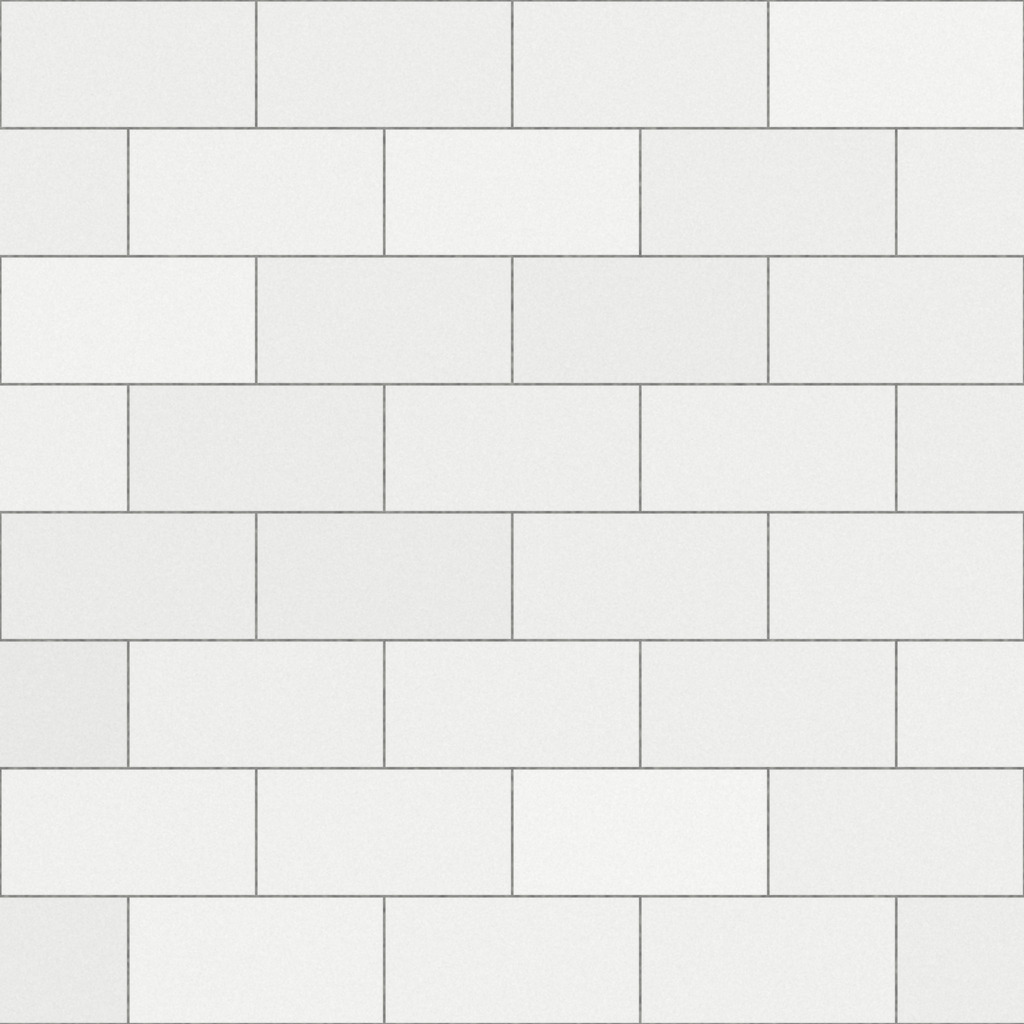
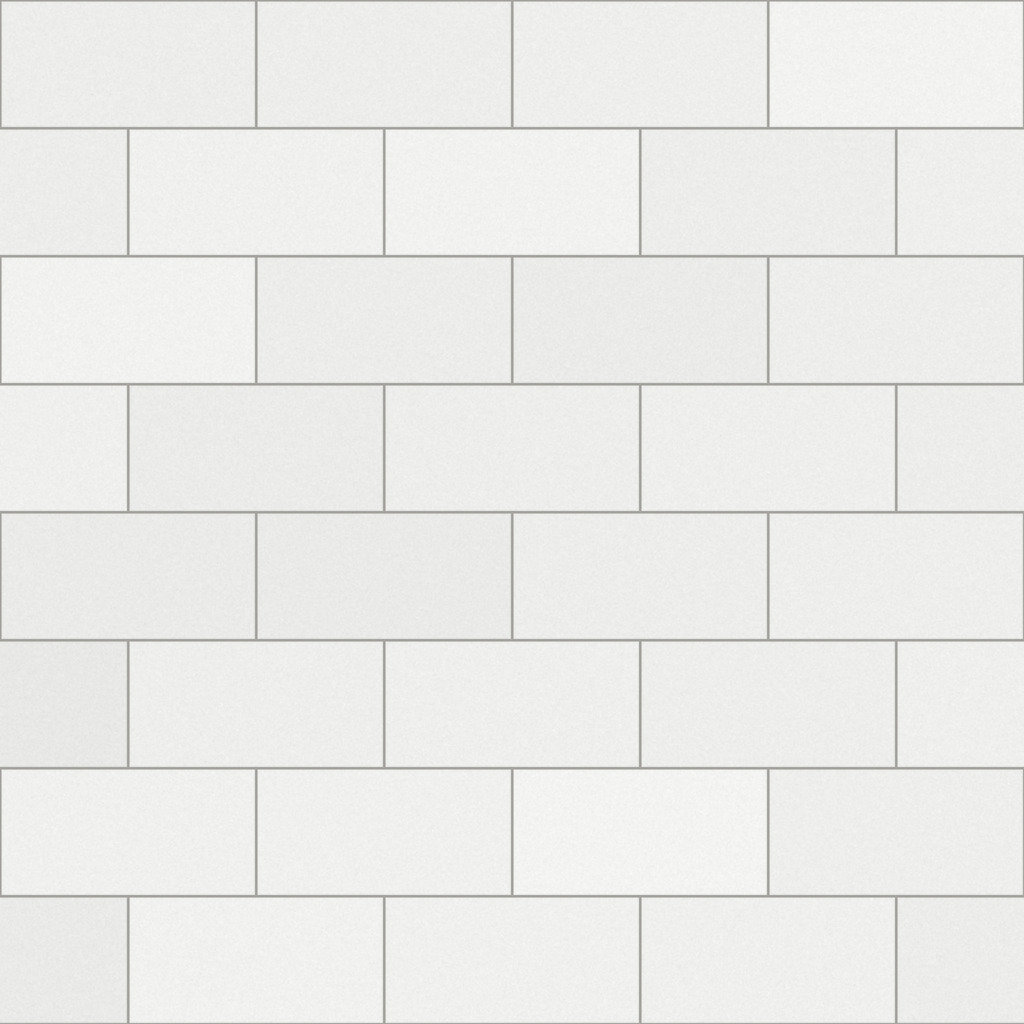
V9.1 : textures 512 px sur téléphone/casque, UV en mètres pour les tores, joint du métro plus clair
Téléphone/casque : 1K pour les matières proches, 512 px pour les autres, avatars sans carte normale (mémoire GPU des textures ≈ 149 Mo au lieu de ≈ 274 Mo). ?lowmem force ce mode pour tester. Joint du métro 0,56 → 0,64 (mesuré sur l'élévation GPT). Cache SW v3.

diff --git a/index.html b/index.html
@@ -121,7 +121,7 @@ import { RoundedBoxGeometry } from 'three/addons/geometries/RoundedBoxGeometry.j
 
 const $ = id => document.getElementById(id);
 const isTouch = matchMedia('(pointer: coarse)').matches;
-const LOWMEM = isTouch || /OculusBrowser|Quest|Pico|Wolvic/i.test(navigator.userAgent);   // phones, tablets, standalone headsets: 1K textures, fewer maps
+const LOWMEM = isTouch || /OculusBrowser|Quest|Pico|Wolvic/i.test(navigator.userAgent) || /[?&]lowmem\b/.test(location.search);   // phones, tablets, standalone headsets (or ?lowmem to test): 1K near / 512 far textures, fewer maps
 const canvas = $('c');
 
 // ---------- Renderer / scene ----------
@@ -221,7 +221,7 @@ const T = {
 // 2K on computers for the big close surfaces, 1K everywhere else and on phones / headsets (GPU memory). ORM = R ambient occlusion, G roughness, B metalness.
 const MAXA = renderer.capabilities.getMaxAnisotropy(), HI2K = new Set(['inox', 'metro', 'sol', 'marble', 'oak', 'imp']), FAR = new Set(['hwall', 'hfloor', 'iron', 'crate']), WUV = new Set();   // FAR: no normal map on phones (GPU memory)
 function tex9(set, kind, size, rot, cb) {
-  loadTex(`v9/${!LOWMEM && HI2K.has(set) ? '2k' : '1k'}/${set}_${kind}.jpg`, kind === 'c' && set !== 'imp' && set !== 'dust', t => { t.repeat.set(1 / size, 1 / size); t.rotation = rot; t.anisotropy = LOWMEM ? Math.min(4, MAXA) : MAXA; cb(t); });
+  loadTex(`v9/${HI2K.has(set) ? (LOWMEM ? '1k' : '2k') : (LOWMEM ? '512' : '1k')}/${set}_${kind}.jpg`, kind === 'c' && set !== 'imp' && set !== 'dust', t => { t.repeat.set(1 / size, 1 / size); t.rotation = rot; t.anisotropy = LOWMEM ? Math.min(4, MAXA) : MAXA; cb(t); });
 }
 function pbr(set, size, list, { c = true, n = !(LOWMEM && FAR.has(set)), rot = 0 } = {}) {   // list: [material, props applied with the colour map, normalScale]
   list.forEach(([m]) => WUV.add(m));
@@ -364,6 +364,7 @@ function cylUV(g, r, h) {   // side: u × circumference, v × height · caps: ×
   for (let i = 0; i < uv.count; i++) { const s = i < side; uv.setXY(i, uv.getX(i) * (s ? 2 * Math.PI * r : 2 * r), uv.getY(i) * (s ? h : 2 * r)); }
   uv.needsUpdate = true; return g;
 }
+const torusUV = g => { const p = g.parameters; return planeUV(g, p.arc * p.radius, 2 * Math.PI * p.tube); };   // u along the ring, v around the tube, in metres
 const planeUV = (g, w, h) => { const uv = g.attributes.uv; for (let i = 0; i < uv.count; i++) uv.setXY(i, uv.getX(i) * w, uv.getY(i) * h); uv.needsUpdate = true; return g; };
 
 // ---------- Builders ----------
@@ -441,7 +442,7 @@ const hallG = new THREE.Group(), _hall0 = scene.children.length;   // everything
     const top = new THREE.Mesh(new THREE.CircleGeometry(1.1, 24, 0, Math.PI), M.daylight); top.position.set(0, 4.1, 0.006); g.add(top);
     const bar = (w, h, px, py) => { const m = new THREE.Mesh(worldUV(new THREE.BoxGeometry(w, h, 0.05), px, py, 0.03), M.iron); m.position.set(px, py, 0.03); g.add(m); };
     bar(0.05, 3.5, -0.37, 3.35); bar(0.05, 3.5, 0.37, 3.35); bar(2.2, 0.06, 0, 4.1); bar(2.2, 0.06, 0, 2.85); bar(2.6, 0.1, 0, 1.58);
-    const ring = new THREE.Mesh(new THREE.TorusGeometry(1.13, 0.045, 6, 24, Math.PI), M.iron); ring.position.set(0, 4.1, 0.03); g.add(ring);
+    const ring = new THREE.Mesh(torusUV(new THREE.TorusGeometry(1.13, 0.045, 6, 24, Math.PI)), M.iron); ring.position.set(0, 4.1, 0.03); g.add(ring);
   }
   for (let x = X0 + 2.5; x < X1; x += 5) { archWindow(x, Z0, 0); archWindow(x, Z1, Math.PI); }
   for (let z = Z0 + 3; z < Z1; z += 5) { archWindow(X0, z, Math.PI / 2); archWindow(X1, z, -Math.PI / 2); }
@@ -578,7 +579,7 @@ const W = 4.933, D = 2.184;                      // interior, metres
   B(2.30, 0.86, 1.584, 1.974, 0.04, 0.60, M.laminate, true); B(4.234, 0, 1.584, 0.04, 0.86, 0.60, M.laminate, true); B(2.30, 0, 1.60, 0.03, 0.86, 0.03, M.inoxDark); B(2.30, 0, 2.15, 0.03, 0.86, 0.03, M.inoxDark);
   B(2.40, 0.90, 1.70, 0.32, 0.08, 0.40, M.alu); B(2.42, 0.98, 1.73, 0.22, 0.03, 0.30, M.inox); B(2.44, 0.98, 1.95, 0.18, 0.14, 0.14, M.alu);
   Cyl(2.67, 1.11, 1.88, 0.14, 0.012, M.plancha, 'x'); B(2.60, 1.10, 1.74, 0.06, 0.03, 0.12, M.inoxDark); B(2.42, 1.01, 1.70, 0.03, 0.03, 0.10, M.black);
-  { const r = new THREE.Mesh(new THREE.TorusGeometry(0.145, 0.008, 8, 40), M.inoxDark); r.rotation.y = Math.PI / 2; r.position.set(2.675, 1.11, 1.88); r.castShadow = true; scene.add(r); }   // blade guard
+  { const r = new THREE.Mesh(torusUV(new THREE.TorusGeometry(0.145, 0.008, 8, 40)), M.inoxDark); r.rotation.y = Math.PI / 2; r.position.set(2.675, 1.11, 1.88); r.castShadow = true; scene.add(r); }   // blade guard
   L('C04', 'Trancheuse', 2.56, 1.45, 1.90, true);
   const sh = new THREE.Group(); sh.position.set(2.60, 1.48, D); sh.rotation.x = -0.32; scene.add(sh);
   const shb = new THREE.Mesh(worldUV(new THREE.BoxGeometry(0.56, 0.025, 0.35), 0, 0, -0.175), M.inox); shb.position.set(0, 0, -0.175); shb.castShadow = true; sh.add(shb);   // UVs in metres, group frame
@@ -655,7 +656,7 @@ const stoolX = [0.9, 1.9, 3.1, 4.1];
 {
   for (const x of stoolX) {
     Cyl(x, 0.735, -0.62, 0.17, 0.05, M.seat); Cyl(x, 0.38, -0.62, 0.022, 0.66, M.inox); Cyl(x, 0.008, -0.62, 0.19, 0.016, M.inoxDark);
-    const ring = new THREE.Mesh(new THREE.TorusGeometry(0.16, 0.012, 8, 36), M.inoxDark); ring.rotation.x = Math.PI / 2; ring.position.set(x, 0.26, -0.62); ring.castShadow = true; scene.add(ring);
+    const ring = new THREE.Mesh(torusUV(new THREE.TorusGeometry(0.16, 0.012, 8, 36)), M.inoxDark); ring.rotation.x = Math.PI / 2; ring.position.set(x, 0.26, -0.62); ring.castShadow = true; scene.add(ring);
     addObs(x - 0.2, -0.82, x + 0.2, -0.42);
   }
   Cyl(2.44, 0.2, -0.5, 0.02, 5.4, M.brass, 'x');
@@ -733,7 +734,7 @@ const gltfLoader = new GLTFLoader(mgr);
 const PEOPLE_EXT = /github\.io$|^(localhost|127\.0\.0\.1)$/.test(location.hostname) ? 'glb' : 'json';   // binary GLB (18 Mo) on Pages / local; the artefact only serves .json (26 Mo)
 [['chef_f', 0, true], ['chef_m', 1, true], ['client_f_sit', 2], ['client_m_sit', 3], ['client_m', 4]].forEach(([file, idx, toque]) => gltfLoader.load(`assets/people/${file}.${PEOPLE_EXT}`, gltf => {
   const old = people[idx], u = old.userData, o = gltf.scene;
-  o.traverse(n => { if (n.isMesh) { n.castShadow = true; n.frustumCulled = false; } });
+  o.traverse(n => { if (n.isMesh) { n.castShadow = true; n.frustumCulled = false; const m = n.material; if (LOWMEM && m.normalMap) { m.normalMap.dispose(); m.normalMap = null; m.needsUpdate = true; } } });   // phones/headsets: no avatar normal maps (−53 MB GPU)
   const box = new THREE.Box3().setFromObject(o), s = u.h / (box.max.y - box.min.y);
   o.scale.setScalar(s); o.position.y = -box.min.y * s;
   const rot = u.seated ? (u.x < 2.5 ? 0.75 : -0.75) : u.rot;   // seated clients turn a little towards each other (legs clear of the bar front)

diff --git a/sw.js b/sw.js
@@ -1,7 +1,7 @@
 // Service worker de la visite 3D (GitHub Pages) : la page est servie « réseau d'abord » (les nouvelles versions arrivent),
 // les ressources (textures, avatars GLB, three.js sur cdn.jsdelivr.net) « cache d'abord » (hors-ligne après la première visite).
 // Si une ressource change de contenu sans changer de nom : incrémenter CACHE.
-const CACHE = 'halles3d-v2';   // v2 = V9 textures (assets/tex/v9), the old ones are purged
+const CACHE = 'halles3d-v3';   // v2 = V9 textures (assets/tex/v9), the old ones are purged
 const PRE = ['./index.html', './manifest.webmanifest', './icon-192.png', './icon-512.png'];
 
 self.addEventListener('install', e => {
